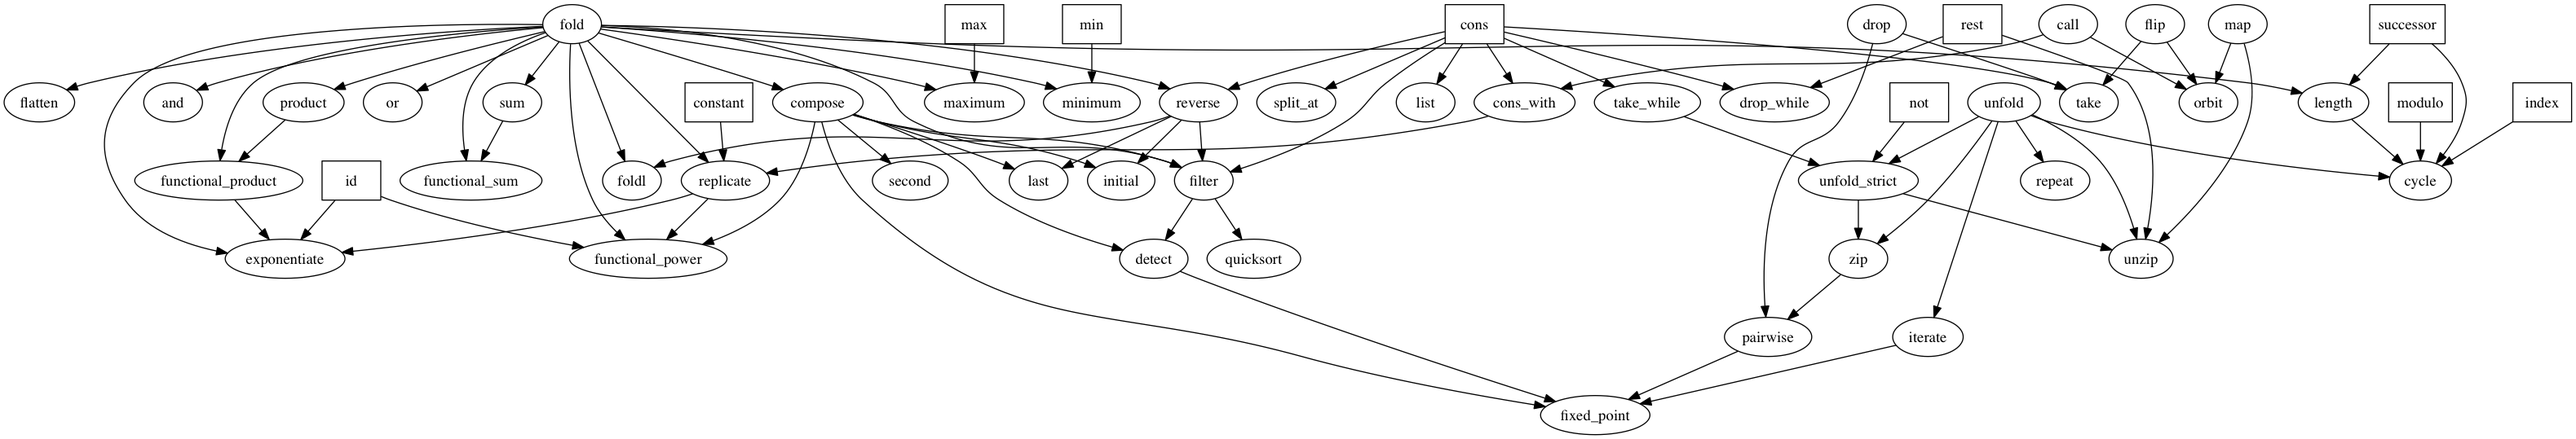
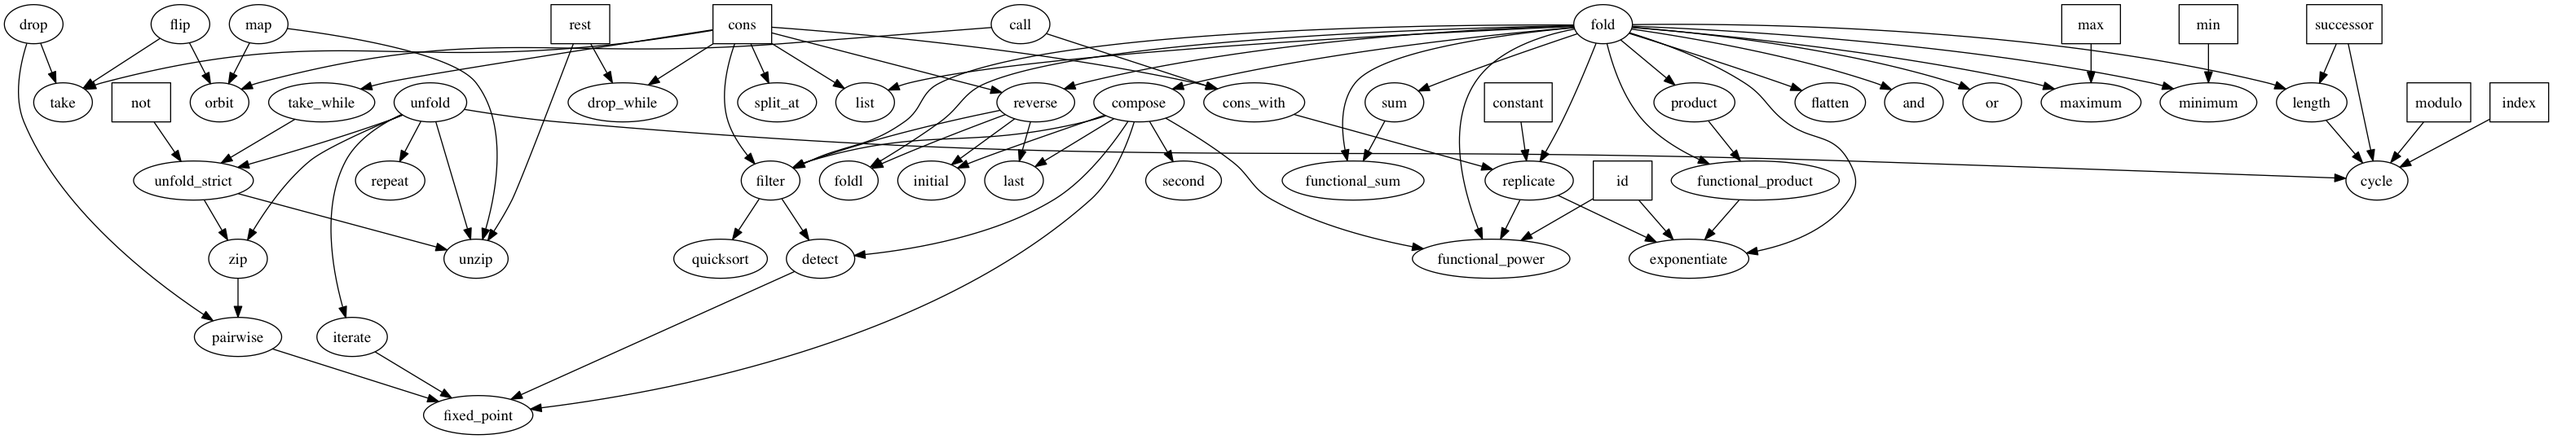
split at in terms of take/drop

diff --git a/lib/functionalism/split_at.rb b/lib/functionalism/split_at.rb
@@ -1,11 +1,8 @@
 module Functionalism
-  # TODO fold?
-  SplitAt = lambda do |n, arr|
-    return [[],arr] if n == 0
-    return [[],[]] if arr.empty?
-    raise "Can't split on negative index!" unless n > 0
-    x, xs = First[arr], Rest[arr]
-    xs_prime, xs_prime_prime = *SplitAt[n-1,xs]
-    [ Cons[xs_prime, x], xs_prime_prime ]
-  end.curry
+  SplitAt = lambda do |n|
+    raise "Can't split on negative index!" unless n >= 0
+    lambda do |arr|
+      [ Take[n,arr], Drop[n, arr] ]
+    end
+  end
 end

diff --git a/spec/split_at_spec.rb b/spec/split_at_spec.rb
@@ -3,7 +3,6 @@ require 'spec_helper'
 describe SplitAt do
   it 'should split an array at the given index' do
     expect(SplitAt[3].([1,2,3,4,5])).to eq([[1,2,3],[4,5]])
-
     expect(SplitAt[0].([1,2,3])).to eq([[],[1,2,3]])
   end
 end
